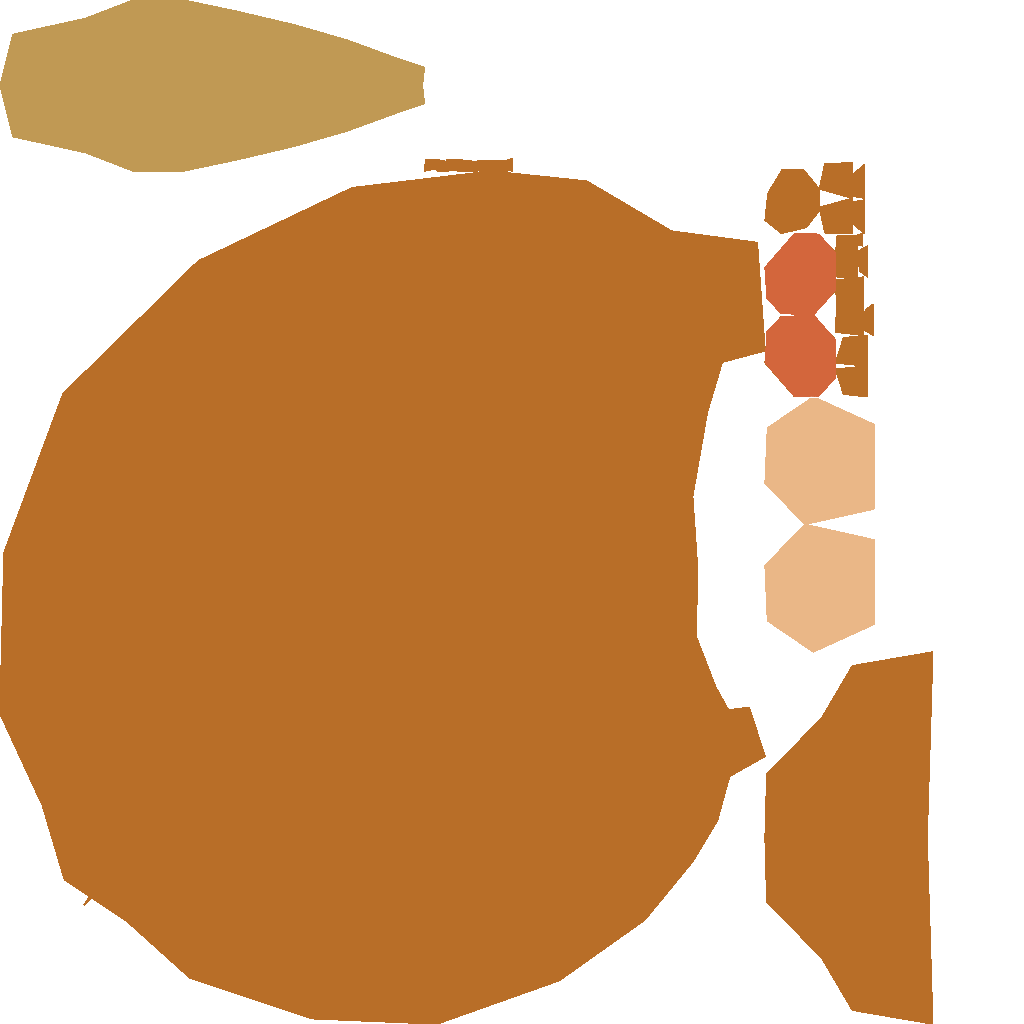
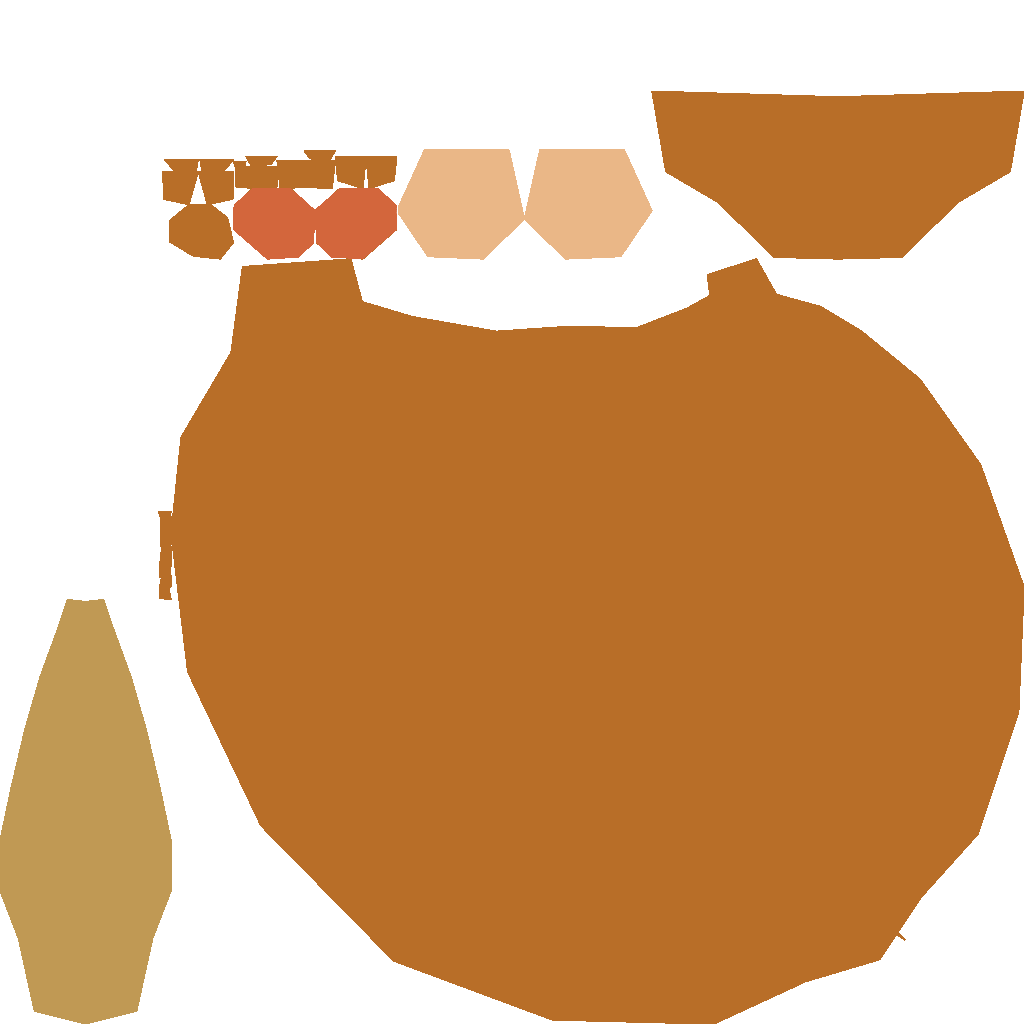
grid system

diff --git a/src/game.c b/src/game.c
@@ -10,22 +10,22 @@
 #include "gf3d_model.h"
 #include "gf3d_camera.h"
 #include "gf3d_texture.h"
-#include "gf3d_entity.h"
+#include "gf3d_grid.h"
 
 int main(int argc,char *argv[])
 {
     int done = 0;
     int a;
-    Uint8 validate = 1;
+    Uint8 validate = 0;
     const Uint8 * keys;
     Uint32 bufferFrame = 0;
     VkCommandBuffer commandBuffer;
     
     for (a = 1; a < argc;a++)
     {
-        if (strcmp(argv[a],"-disable_validate") == 0 || strcmp(argv[a],"-dv") == 0 || strcmp(argv[a],"-stfu") == 0 || strcmp(argv[a],"-n") == 0 )
+        if (strcmp(argv[a],"-validate") == 0)
         {
-            validate = 0;
+            validate = 1;
         }
     }
     
@@ -43,24 +43,32 @@ int main(int argc,char *argv[])
     // main game loop
     slog("gf3d main loop begin");
     
-    gf3d_entity_manager_init(64);
-
-    Entity *mouse = gf3d_entity_new();
-    mouse->model = gf3d_model_load("mouse");
-    gfc_matrix_identity(mouse->modelMat);
-    mouse->position = vector3d(0,0,0);
-    mouse->rotation = vector3d(0,0,0);
-    mouse->scale = vector3d(1,1,1);
+    gf3d_entity_manager_init(128);
+    gf3d_grid_manager_init();
 
     Entity *vulture = gf3d_entity_new();
+    gf3d_entity_init(vulture, "vulture");
+    gf3d_entity_rotate(vulture, M_PI/2, vector3d(1,0,0));
+    gf3d_entity_rotate(vulture, M_PI, vector3d(0,1,0));
+
+    int i;
+    int j;
+    Entity *cubes[3][3];
+    for(i = 0; i < 3; i++){
+        for(j = 0; j < 3; j++){
+            cubes[i][j] = gf3d_entity_new();
+            gf3d_entity_init(cubes[i][j], "cube");
+            gf3d_entity_translate(cubes[i][j], vector3d(i, j, 0));
+        }
+    }
 
     while(!done)
     {
         SDL_PumpEvents();   // update SDL's internal event structures
         keys = SDL_GetKeyboardState(NULL); // get the keyboard state for this frame
         //update game things here
-        gf3d_vgraphics_rotate_camera(0.001);
-        gf3d_entity_rotate(mouse, .002, vector3d(1,0,0));
+
+        gf3d_entity_rotate(vulture, .002, vector3d(0,1,0));
 
         // configure render command for graphics command pool
         // for each mesh, get a command and configure it from the pool
@@ -71,7 +79,6 @@ int main(int argc,char *argv[])
                 gf3d_entity_manager_draw_all(bufferFrame, commandBuffer);
 
             gf3d_command_rendering_end(commandBuffer);
-            
         gf3d_vgraphics_render_end(bufferFrame);
 
         if (keys[SDL_SCANCODE_ESCAPE])done = 1; // exit condition

diff --git a/include/gf3d_entity.h b/include/gf3d_entity.h
@@ -21,18 +21,14 @@ typedef struct Entity_S
     Vector3D       rotation;       /**<yaw, pitch, and roll of the entity*/
     Vector3D       scale;          /**<*please default to 1,1,1*/
     EntityState    state;          /**<current state of the entity*/
-    //void (think*)(struct Entity_S* self);   /**<function called on entity think*/
-    //void (update*)(struct Entity_S* self);   /**<function called on entity update*/
-    //void (touch*)(struct Entity_S* self, struct Entity_S* other);   /**<function called on entity think*/
-    float           health;
-    float           healthmax;
-    float           armor;
-    float           experience;
-    float           level;
-    float           otherStuff;
+    void (*think) (struct Entity_S* self);   /**<function called on entity think*/
+    void (*update)(struct Entity_S* self);   /**<function called on entity update*/
+    void (*touch) (struct Entity_S* self, struct Entity_S* other);   /**<function called on entity touch*/
     void *data;                     /**<additional entity specific data*/
     
 }Entity;
+
+void gf3d_entity_manager_close();
 
 /**
  * @brief initializes the entity subsystem
@@ -54,6 +50,13 @@ void gf3d_entity_manager_init(Uint32 entity_max);
 void gf3d_entity_manager_draw_all(Uint32 bufferFrame, VkCommandBuffer commandBuffer);
 
 Entity *gf3d_entity_new();
+
+/**
+ * @brief set entity variables to defaults
+ * @param entity entity to initialize
+ * @param model model to load
+ */
+void gf3d_entity_init(Entity *entity, char model[]);
 
 /**
  * @brief free an active entity

diff --git a/src/gf3d_grid.c b/src/gf3d_grid.c
@@ -1,0 +1,31 @@
+#include <stdlib.h>
+#include <string.h>
+#include "simple_logger.h"
+#include "gf3d_grid.h"
+
+typedef struct {
+    Tile *tile_list[X][Y];    /**<2D array to represent the world*/
+} GridManager;
+
+static GridManager gf3d_grid_manager = {0};
+
+
+void gf3d_grid_manager_init() {
+    int i;
+    int j;
+    for(i = 0; i < X; i++){
+        for(j = 0; j < Y; j++){
+            gf3d_grid_manager.tile_list[i][j] = (Tile*) malloc(sizeof(Tile));
+            gf3d_grid_manager.tile_list[i][j]->hasEntity = false;
+            if(j < Y/2){
+                gf3d_grid_manager.tile_list[i][j]->team = 1;
+            }
+
+            if(( i < 2 || i > X-2 ) || ( j < 2 || j > Y-2 )){
+                gf3d_grid_manager.tile_list[i][j]->inBounds = false;
+            }else{
+                gf3d_grid_manager.tile_list[i][j]->inBounds = true;
+            }
+        }
+    }
+}

diff --git a/src/gf3d_pipeline.c b/src/gf3d_pipeline.c
@@ -460,7 +460,7 @@ void gf3d_pipeline_create_descriptor_sets(Pipeline *pipe)
     pipe->descriptorSets = (VkDescriptorSet **)gfc_allocate_array(sizeof(VkDescriptorSet*),gf3d_pipeline.chainLength);
 
     for (i = 0; i < gf3d_pipeline.chainLength; i++)
-    {    
+    {
         pipe->descriptorSets[i] = (VkDescriptorSet *)gfc_allocate_array(sizeof(VkDescriptorSet),pipe->descriptorSetCount);
         allocInfo.descriptorPool = pipe->descriptorPool[i];
         slog("allocating descriptor sets");
@@ -475,7 +475,6 @@ void gf3d_pipeline_create_descriptor_sets(Pipeline *pipe)
             return;
         }
     }
-    pipe->descriptorSetCount = gf3d_pipeline.chainLength;
 }
 
 void gf3d_pipeline_create_basic_model_descriptor_set_layout(Pipeline *pipe)

diff --git a/include/gf3d_grid.h b/include/gf3d_grid.h
@@ -1,0 +1,22 @@
+#ifndef GF3D_GF3D_GRID_H
+#define GF3D_GF3D_GRID_H
+
+#define X 10
+#define Y 10
+
+#include "gf3d_entity.h"
+
+typedef struct TILE_S
+{
+    Uint8          hasEntity;      /**<flag to keep track if this isntance has an entity in it*/
+    Entity          *entity;       /**<the entity in the grid NULL if no entity is present*/
+    Uint8          inBounds;      /**<flag to keep track if this isntance is in-bounds*/
+    Uint8          team;          /**<flag to keep track which team the grid is on*/
+    void *data;                    /**<additional entity specific data*/
+}Tile;
+
+void gf3d_grid_manager_close();
+
+void gf3d_grid_manager_init();
+
+#endif //GF3D_GF3D_GRID_H

diff --git a/src/gf3d_entity.c b/src/gf3d_entity.c
@@ -49,6 +49,16 @@ Entity *gf3d_entity_new() {
     return NULL;
 }
 
+void gf3d_entity_init(Entity *entity, char model[]) {
+    entity->model = gf3d_model_load(model);
+    gfc_matrix_identity(entity->modelMat);
+    entity->position = vector3d(0,0,0);
+    entity->rotation = vector3d(0,0,0);
+    entity->scale = vector3d(1,1,1);
+}
+
+
+
 void gf3d_entity_free(Entity *self) {
     if (!self) {
         slog("self pointer is not valid");
